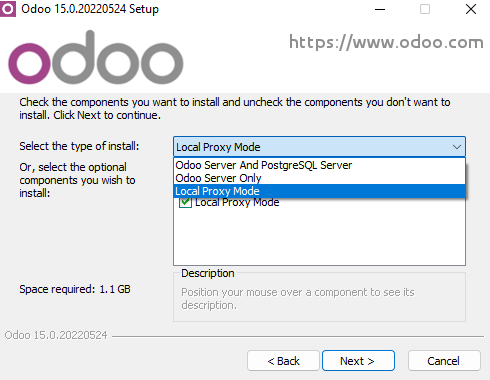
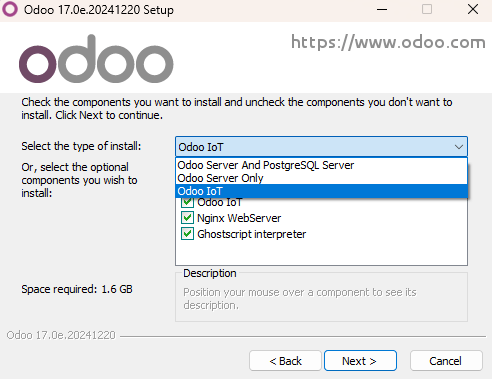
[FIX] Egypt fiscal localizations: Update proxy install instructions
Since Odoo 16, to install the local proxy, users need to select the
"Odoo IoT" option install of the "Local Proxy Mode" to install the local
proxy.

This commit updates both the text and accompanying screenshot

diff --git a/content/applications/finance/fiscal_localizations/egypt.rst b/content/applications/finance/fiscal_localizations/egypt.rst
@@ -205,11 +205,11 @@ An Odoo local server works as a bridge between your computer and your Odoo datab
 Download the Odoo Community installer from the page https://www.odoo.com/page/download and start the
 installation on your computer.
 
-Select :guilabel:`Local Proxy Mode` as the type of install.
+Select :guilabel:`Odoo IoT` as the type of install.
 
 .. image:: egypt/install-odoo-local-proxy.png
    :align: center
-   :alt: Selection of "Local Proxy Mode" during the installation of Odoo Community.
+   :alt: Selection of "Odoo IoT" during the installation of Odoo Community.
 
 .. note::
    This installation of Odoo only works as a server and does not install any Odoo apps on your
